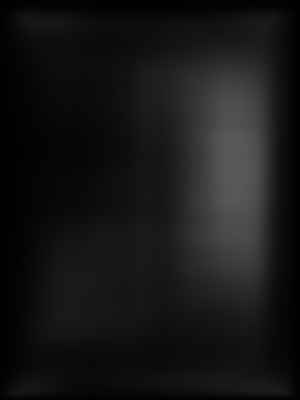
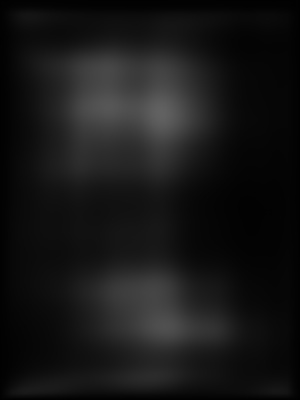
making improvements to the code

diff --git a/layout_distribution_predict.py b/layout_distribution_predict.py
@@ -1,13 +1,3 @@
-# -*- encoding: utf-8 -*-
-'''
-@File    :   layout_distribution_predict.py
-@Time    :   2023/01/05 16:49:10
-@Author  :   Chuhao Jin
-@Email   :   jinchuhao@ruc.edu.cn
-'''
-
-# here put the import lib
-
 import torch
 import cv2
 import os
@@ -24,20 +14,17 @@ MIN_VALUE = -999999
 MAX_BBOX_NUM = 32
 
 distrib_model = LayoutsDistribModel(
-    dim_feedforward = channel_deep, 
-    scale_val = scale_val, 
-    channel_deep = channel_deep, 
-    position_deep = position_deep)
+    dim_feedforward=channel_deep,
+    scale_val=scale_val,
+    channel_deep=channel_deep,
+    position_deep=position_deep)
 
 ckpt_path = "./checkpoint/27.80619_distribCNN_BigPosition_epoch_76_scale_20.pth"
 distrib_model.load_state_dict(torch.load(ckpt_path, map_location=torch.device('cpu')).module.state_dict())
 
-
-#distrib_model = distrib_model.cuda()
-
 saliency = cv2.saliency.StaticSaliencyFineGrained_create()
 
-def softmax_1d_weight(x, weight = 1):
+def softmax_1d_weight(x, weight=1):
     exp_x = np.exp(x * weight)
     exp_sum = exp_x.sum()
     return exp_x / exp_sum * x.shape[0]
@@ -46,65 +33,70 @@ def softmax_1d_weight(x, weight = 1):
 def smooth_region_dectection(img):
     (success, saliency_map) = saliency.computeSaliency(img)
     scaled_saliency_map = cv2.resize(saliency_map, (STD_WIDTH, STD_HEIGHT))
-    smooth_regions, smooth_scores = get_candidates_region(scaled_saliency_map,  threshold=0.5)
+    smooth_regions, smooth_scores = get_candidates_region(scaled_saliency_map, threshold=0.5)
     regions = np.array(
-        [[[obj[0], obj[1]], 
-        [obj[2], obj[1]], 
-        [obj[2], obj[3]], 
-        [obj[0], obj[3]]] for obj in smooth_regions.numpy()], 
-        dtype = np.int32) // 1
-    smooth_region_mask = np.zeros(shape = (1, STD_HEIGHT, STD_WIDTH), dtype = np.uint8)
+        [[[obj[0], obj[1]],
+          [obj[2], obj[1]],
+          [obj[2], obj[3]],
+          [obj[0], obj[3]]] for obj in smooth_regions.numpy()],
+        dtype=np.int32) // 1
+    smooth_region_mask = np.zeros(shape=(1, STD_HEIGHT, STD_WIDTH), dtype=np.uint8)
     cv2.fillPoly(smooth_region_mask[0], regions, 1)
     return smooth_region_mask, regions, saliency_map
 
 
 def get_distrib_mask(cand_mask):
-    # distrib_mask: (STD_HEIGHT, STD_WIDTH)
     input_mask = torch.tensor(cand_mask).float()
 
-    #input_mask = torch.tensor(cand_mask).cuda().float()
     with torch.no_grad():
-        pred_decoder_bbox_map, _ = distrib_model.forward(inputs_candidates_masks = input_mask, 
-                                                         outputs_bboxes_masks = None, extract = True, )
+        pred_decoder_bbox_map, _ = distrib_model.forward(inputs_candidates_masks=input_mask,
+                                                         outputs_bboxes_masks=None, extract=True)
     decoder_bbox_map = pred_decoder_bbox_map.clone().cpu().numpy()[0][0]
     decoder_bbox_map = cv2.resize(decoder_bbox_map, (STD_WIDTH, STD_HEIGHT))
     return decoder_bbox_map
 
 
 def get_bbox_mask(bbox):
-    mask = np.zeros((1, STD_HEIGHT, STD_WIDTH), dtype = np.uint8)
-    regions = np.array([[[obj[0], obj[1]], 
-                        [obj[2], obj[1]], 
-                        [obj[2], obj[3]],
-                        [obj[0], obj[3]]] for obj in bbox[0][:min(MAX_BBOX_NUM, data_len)]], dtype = np.int32)
+    mask = np.zeros((1, STD_HEIGHT, STD_WIDTH), dtype=np.uint8)
+    regions = np.array([[[obj[0], obj[1]],
+                         [obj[2], obj[1]],
+                         [obj[2], obj[3]],
+                         [obj[0], obj[3]]] for obj in bbox[0][:min(MAX_BBOX_NUM, data_len)]], dtype=np.int32)
     cv2.fillPoly(mask[0], regions, 1, 1)
     return mask
 
 
 if __name__ == "__main__":
-    img_path = "D:/Personal/diksha/AS/Text2Poster-ICASSP-22/bk_image_folder/girl.jpg"
+    img_path = r"D:\Personal\diksha\AS\Text2Poster-ICASSP-22\bk_image_folder\img-1.png"
     img = cv2.imread(img_path)
     width, height = img.shape[1], img.shape[0]
     img_size = (width, height)
-    # scaled_width_ratio, scaled_height_ratio = width / STD_WIDTH, height / STD_HEIGHT
+
     smooth_region_mask, regions, saliency_map = smooth_region_dectection(img)
     bbox_distrib_map = get_distrib_mask(smooth_region_mask)
 
     cv2.imwrite("./display/candidate_regions.jpg", smooth_region_mask[0] * 255)
     cv2.imwrite("./display/layout_distribution.jpg", bbox_distrib_map * 255)
 
-    # show (salicy_map, smooth_region) in a figure.
+    # Save smooth region coordinates to a text file
+    coordinates_file = open("./smooth_region_coordinates.txt", "w")
+    for region in regions:
+        for point in region:
+            coordinates_file.write(f"{point[0]}, {point[1]}\n")
+    coordinates_file.close()
+
+    # Show (salicy_map, smooth_region) in a figure.
     saliency_map_with_smooth = np.zeros((height, width, 3))
     saliency_map_with_smooth[:, :, 0] = saliency_map / saliency_map.max()
     smooth_region_mask = cv2.resize(smooth_region_mask[0], (width, height))
-    saliency_map_with_smooth[:, :, 2] = smooth_region_mask / smooth_region_mask.max() 
+    saliency_map_with_smooth[:, :, 2] = smooth_region_mask / smooth_region_mask.max()
     saliency_map_with_smooth = cv2.resize(saliency_map_with_smooth, (width, height))
     cv2.imwrite("./display/saliency_map_with-smooth.jpg", saliency_map_with_smooth * 255)
 
-    # show (salicy_map, predicted_layout_distribution) in a figure.
+    # Show (salicy_map, predicted_layout_distribution) in a figure.
     saliency_map_with_distrib = np.zeros((height, width, 3))
     saliency_map_with_distrib[:, :, 0] = saliency_map / saliency_map.max()
     bbox_distrib_map = cv2.resize(bbox_distrib_map, (width, height))
     saliency_map_with_distrib[:, :, 2] = bbox_distrib_map / bbox_distrib_map.max()
     saliency_map_with_distrib = cv2.resize(saliency_map_with_distrib, (width, height))
-    cv2.imwrite("./display/this_trial.jpg", saliency_map_with_distrib * 255)
+    cv2.imwrite("./display/ppt_bkg.jpg", saliency_map_with_distrib * 255)
